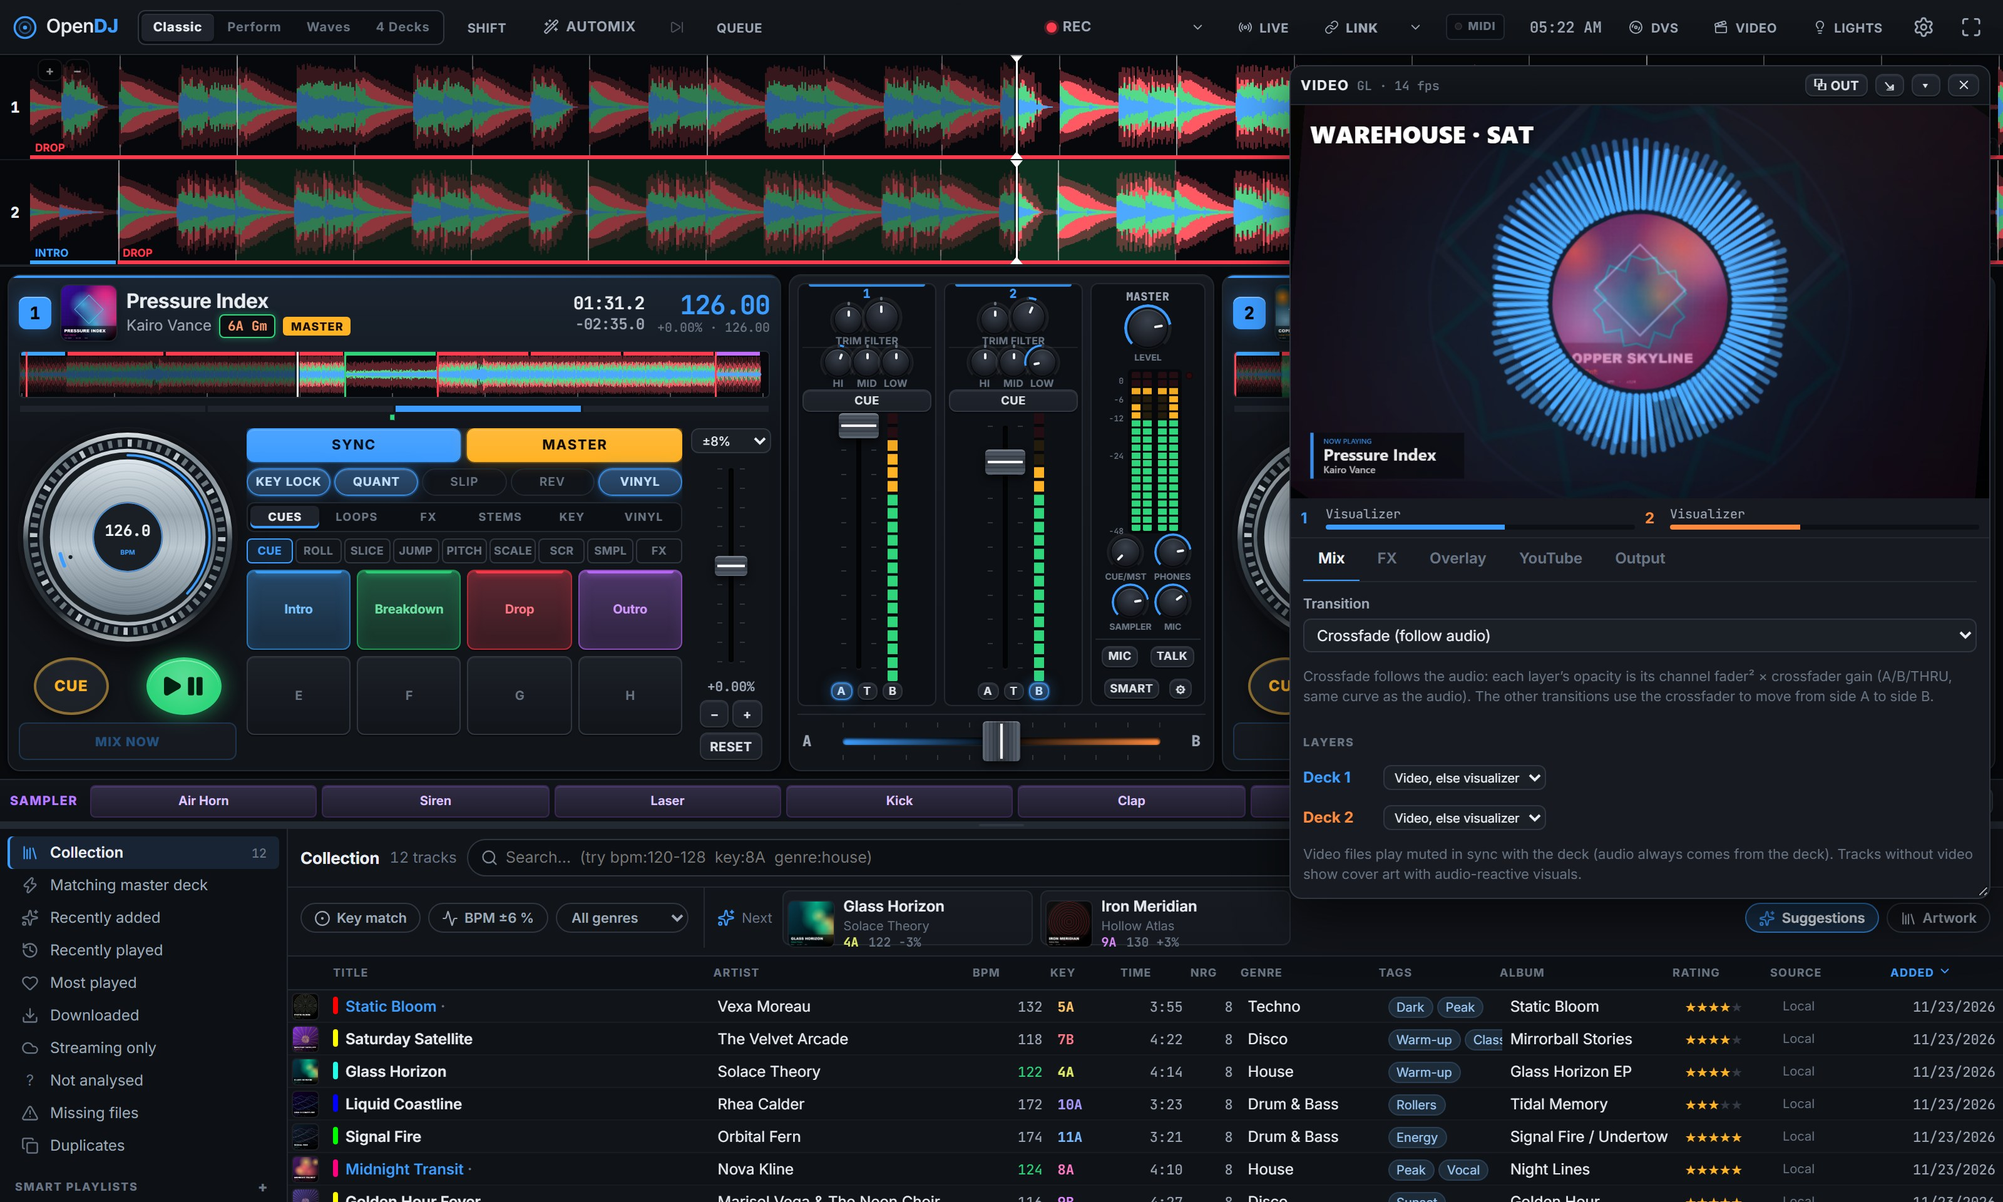
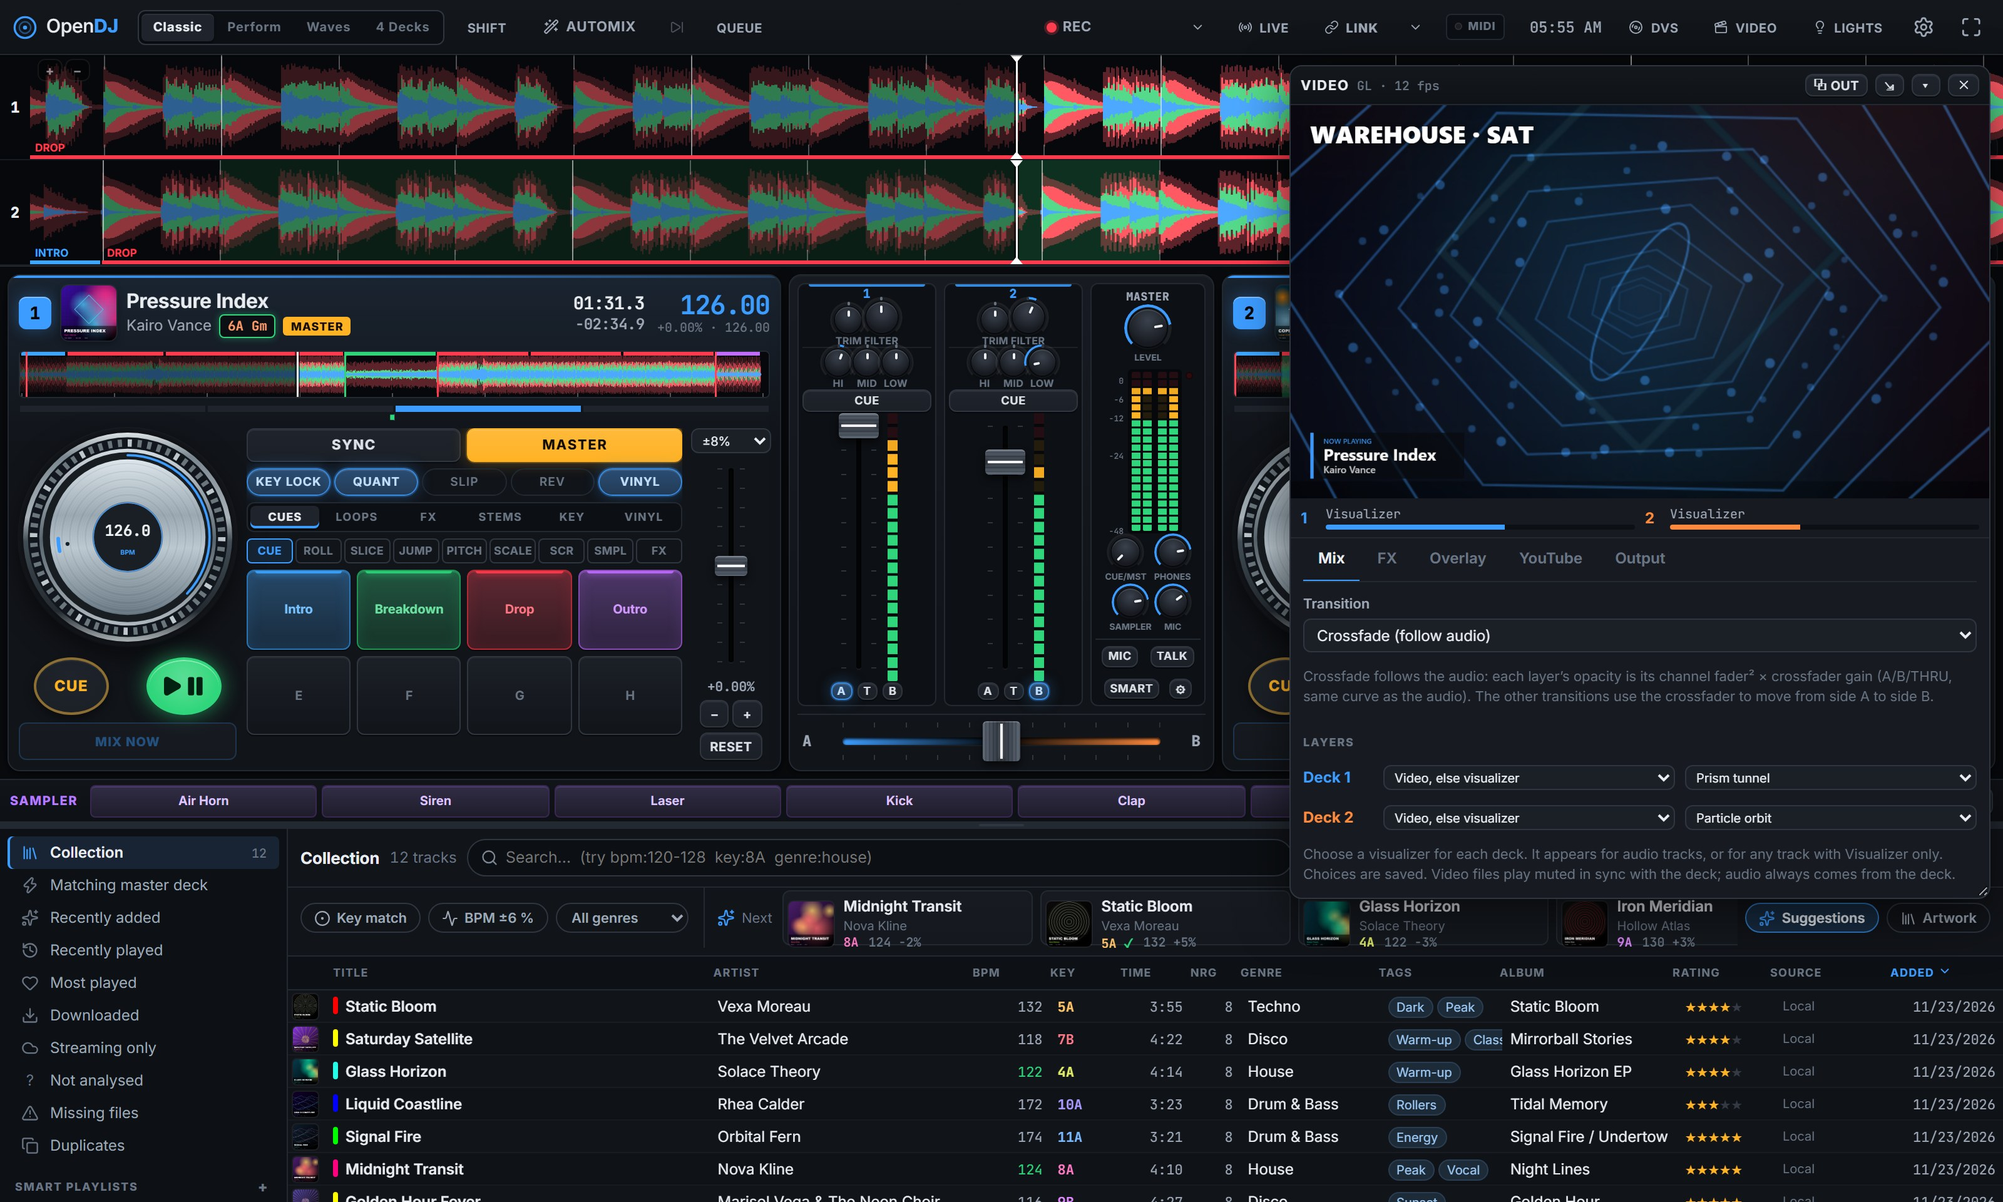
Add four audio-reactive visualisers with per-deck saved controls

diff --git a/public/js/video/visualizer.js b/public/js/video/visualizer.js
@@ -1,8 +1,9 @@
-// Audio-reactive visualizer for decks without a picture: cover art + spectrum ring + beat pulse.
+// Audio-reactive deck scenes: cover ring, spectrum, waveform, particles and prism tunnel.
 // Draws into its own small canvas; the mixer uses that canvas as a layer texture.
 // Taps the channel's post-FX signal with our own AnalyserNode (engine.js is not modified).
 import { api } from '../api.js';
 import { cssVar } from '../ui/themes.js';
+import { visualStyle } from './video-core.js';
 
 const W = 640, H = 360;
 
@@ -14,6 +15,7 @@ export class Visualizer {
     this.g = this.canvas.getContext('2d');
     this.analyser = null; this.bins = null; this.cover = null; this.coverFor = null;
     this.energy = 0; this.smooth = new Float32Array(48); this.hue = 0;
+    this.style = 'ring'; this.wave = null;
     this.accent = cssVar('--accent');
     this._onTheme = () => { this.accent = getComputedStyle(document.documentElement).getPropertyValue('--accent').trim() || '#3ea6ff'; };
     window.addEventListener('opendj-theme', this._onTheme);
@@ -22,6 +24,7 @@ export class Visualizer {
 
   get width() { return W; }
   get height() { return H; }
+  setStyle(id) { this.style = visualStyle(id); }
 
   ensureAnalyser() {
     if (this.analyser) return;
@@ -31,6 +34,7 @@ export class Visualizer {
     ch.fx.output.connect(this.analyser); // fan-out tap: does not change the audio path
     ch.fx.wetOut?.connect(this.analyser); // post-fader FX tails (silent in pre-fader mode)
     this.bins = new Uint8Array(this.analyser.frequencyBinCount);
+    this.wave = new Uint8Array(this.analyser.fftSize);
   }
 
   setTrack(track) {
@@ -42,7 +46,7 @@ export class Visualizer {
     img.src = api.coverUrl(track.id);
   }
 
-  /** Render one frame. deck gives the beat phase; cheap (≈ 50 shapes). */
+  /** Render one frame. deck gives the beat phase; work stays bounded per style. */
   draw(deck, now) {
     this.ensureAnalyser();
     const g = this.g, a = this.analyser, bins = this.bins;
@@ -74,6 +78,11 @@ export class Visualizer {
       g.globalAlpha = 1;
       g.fillStyle = 'rgba(0,0,0,.45)'; g.fillRect(0, 0, W, H);
     }
+    if (this.style !== 'ring') {
+      this.drawStyle(now, beat, accent);
+      g.globalCompositeOperation = 'source-over'; g.globalAlpha = 1;
+      return;
+    }
     // spectrum ring
     const cx = W / 2, cy = H / 2, r0 = 86 + 10 * beat;
     g.globalCompositeOperation = 'lighter';
@@ -102,6 +111,61 @@ export class Visualizer {
       g.fillText(String(this.index + 1), cx, cy + 2);
     }
     g.restore();
+  }
+
+  /** Bounded Canvas2D scenes at 640×360; no particles or audio nodes allocated per frame. */
+  drawStyle(now, beat, accent) {
+    const g = this.g, bands = this.smooth, n = bands.length, cx = W / 2, cy = H / 2;
+    const t = now / 1000;
+    g.globalCompositeOperation = 'lighter'; g.lineCap = 'round';
+    if (this.style === 'bars') {
+      const step = (W - 64) / n;
+      for (let k = 0; k < n; k++) {
+        const h = 6 + bands[k] * 230, x = 32 + k * step;
+        g.fillStyle = withAlpha(accent, 0.45 + bands[k] * 0.55);
+        g.fillRect(x, H - 48 - h, step - 3, h);
+        g.fillStyle = 'rgba(225,245,255,.85)'; g.fillRect(x, H - 52 - h, step - 3, 2);
+        g.fillStyle = withAlpha(accent, 0.12); g.fillRect(x, H - 42, step - 3, h * 0.12);
+      }
+    } else if (this.style === 'scope') {
+      this.analyser.getByteTimeDomainData(this.wave);
+      g.strokeStyle = withAlpha(accent, 0.15); g.lineWidth = 1;
+      g.beginPath();
+      for (let y = 60; y < H; y += 60) { g.moveTo(24, y); g.lineTo(W - 24, y); }
+      for (let x = 32; x < W; x += 48) { g.moveTo(x, 30); g.lineTo(x, H - 30); }
+      g.stroke();
+      for (const [width, alpha] of [[10, 0.14], [3, 1]]) {
+        g.strokeStyle = withAlpha(accent, alpha); g.lineWidth = width; g.beginPath();
+        for (let k = 0; k < this.wave.length; k += 2) {
+          const x = 24 + k / (this.wave.length - 2) * (W - 48), y = cy + (this.wave[k] - 128) / 128 * (110 + beat * 18);
+          if (k === 0) g.moveTo(x, y); else g.lineTo(x, y);
+        }
+        g.stroke();
+      }
+    } else if (this.style === 'orbit') {
+      for (let k = 0; k < 80; k++) {
+        const band = bands[k % n], angle = k * 2.399963 + t * (0.12 + (k % 4) * 0.035);
+        const radius = 28 + Math.sqrt(k / 80) * 130 + band * 48 + beat * 8;
+        const x = cx + Math.cos(angle) * radius * 1.55, y = cy + Math.sin(angle) * radius * 0.8;
+        g.fillStyle = withAlpha(accent, 0.25 + band * 0.65); g.beginPath();
+        g.arc(x, y, 1.3 + band * 3.5, 0, Math.PI * 2); g.fill();
+      }
+      g.strokeStyle = withAlpha(accent, 0.5 + this.energy * 0.4); g.lineWidth = 2;
+      g.beginPath(); g.ellipse(cx, cy, 56 + this.energy * 30, 24 + beat * 5, -t * 0.15, 0, Math.PI * 2); g.stroke();
+    } else if (this.style === 'tunnel') {
+      for (let k = 0; k < 14; k++) {
+        const depth = ((k / 14 + t * 0.08) % 1), radius = 12 + depth * depth * 420;
+        const twist = t * 0.16 + depth * 0.9;
+        g.strokeStyle = withAlpha(accent, 0.12 + depth * 0.7); g.lineWidth = 1 + depth * 2;
+        g.beginPath();
+        for (let j = 0; j <= 6; j++) {
+          const a = j * Math.PI / 3 + twist, r = radius * (1 + bands[(k * 3) % n] * 0.16 + beat * 0.025);
+          const x = cx + Math.cos(a) * r * 1.4, y = cy + Math.sin(a) * r;
+          if (j === 0) g.moveTo(x, y); else g.lineTo(x, y);
+        }
+        g.stroke();
+      }
+    }
   }
 
   dispose() {

diff --git a/public/js/video/video-ui.js b/public/js/video/video-ui.js
@@ -3,7 +3,7 @@
 import { icon } from '../ui/icons.js';
 import { el, uiZoom } from '../util.js';
 import { VideoMixer, RESOLUTIONS } from './mixer.js';
-import { TRANSITIONS, FX, parseYouTube } from './video-core.js';
+import { TRANSITIONS, FX, VISUAL_STYLES, parseYouTube } from './video-core.js';
 import { YouTubeSource, searchYouTube } from './youtube.js';
 import { OutputManager } from './output.js';
 
@@ -115,11 +115,13 @@ export function setupVideo(app) {
       meters.append(el('div', { class: 'vid-m yt', hidden: true }, el('b', {}, '▶'), yl, el('span', { class: 'vid-m-bar' }, yb)));
     }
     function live() {
-      if (meterEls.length !== mixer.deckCount + 1) buildMeters();
+      if (meterEls.length !== mixer.deckCount + 1) { buildMeters(); if (cur === 'mix' || cur === 'fx') show(cur); }
       const w = mixer.weights;
       let any = false;
       for (let i = 0; i < mixer.deckCount; i++) {
         const l = mixer.layers[i], m = meterEls[i];
+        const picker = root.querySelector(`[data-visual-deck="${i}"]`);
+        if (picker && picker.value !== l.visualStyle) picker.value = l.visualStyle;
         const a = w[i]?.alpha || 0; any ||= a > 0.01;
         m.bar.style.width = `${Math.round(a * 100)}%`;
         m.lbl.textContent = l.kind === 'video' ? `Video${l.lastDecision ? ` ${l.lastDecision.mode === 'locked' || l.lastDecision.mode === 'nudge' ? `±${Math.round(Math.abs(l.drift) * 1000)}ms` : l.lastDecision.mode}` : ''}` : l.kind === 'visual' ? 'Visualizer' : '—';
@@ -157,13 +159,16 @@ export function setupVideo(app) {
           el('option', { value: 'auto', selected: l.mode === 'auto' }, 'Video, else visualizer'),
           el('option', { value: 'visual', selected: l.mode === 'visual' }, 'Visualizer only'),
           el('option', { value: 'off', selected: l.mode === 'off' }, 'Off (black)'));
-        rows.push(el('div', { class: 'vid-deckrow', style: `--deck-color: var(--deck${i + 1})` }, el('b', {}, `Deck ${i + 1}`), ms));
+        ms.setAttribute('aria-label', `Deck ${i + 1} video source`);
+        const vs = el('select', { class: 'sel tiny', 'data-visual-deck': i, 'aria-label': `Deck ${i + 1} visualizer`, onchange: () => mixer.setVisualStyle(i, vs.value) },
+          ...VISUAL_STYLES.map(s => el('option', { value: s.id, selected: s.id === l.visualStyle }, s.name)));
+        rows.push(el('div', { class: 'vid-deckrow', style: `--deck-color: var(--deck${i + 1})` }, el('b', {}, `Deck ${i + 1}`), ms, vs));
       }
       return el('div', { class: 'form' },
         el('label', { class: 'field' }, el('span', {}, 'Transition'), sel),
         el('p', { class: 'hint' }, 'Crossfade follows the audio: each layer’s opacity is its channel fader² × crossfader gain (A/B/THRU, same curve as the audio). The other transitions use the crossfader to move from side A to side B.'),
         el('h3', {}, 'Layers'), ...rows,
-        el('p', { class: 'hint' }, 'Video files play muted in sync with the deck (audio always comes from the deck). Tracks without video show cover art with audio-reactive visuals.'));
+        el('p', { class: 'hint' }, 'Choose a visualizer for each deck. It appears for audio tracks, or for any track with Visualizer only. Choices are saved. Video files play muted in sync with the deck; audio always comes from the deck.'));
     }
 
     function fxTab() {

diff --git a/public/js/video/mixer.js b/public/js/video/mixer.js
@@ -3,7 +3,7 @@
 // driven by the crossfader. Per-layer FX, text/logo overlay and a "now playing" lower third.
 // The canvas feeds the preview panel and (via captureStream) the pop-out output window.
 import { Emitter } from '../util.js';
-import { computeLayers, dominantLayer, nowPlayingText, lowerThirdAlpha, TRANSITIONS, FX } from './video-core.js';
+import { computeLayers, dominantLayer, nowPlayingText, lowerThirdAlpha, TRANSITIONS, FX, visualStyle } from './video-core.js';
 import { VideoDeckLayer } from './video-deck.js';
 import { GLRenderer, CanvasRenderer } from './renderers.js';
 import { withAlpha } from './visualizer.js';
@@ -15,11 +15,12 @@ function loadConfig() {
   const def = {
     transition: 'crossfade', resolution: '720p', renderer: 'auto',
     fx: [{}, {}, {}, {}], modes: ['auto', 'auto', 'auto', 'auto'],
+    visualStyles: ['ring', 'ring', 'ring', 'ring'],
     overlay: { text: '', textPos: 'tl', logo: '', logoPos: 'tr', lowerThird: true, hold: 8 },
   };
   try {
     const s = JSON.parse(localStorage.getItem(STORE) || '{}');
-    return { ...def, ...s, overlay: { ...def.overlay, ...(s.overlay || {}) }, fx: def.fx.map((d, i) => ({ ...(s.fx?.[i] || {}) })), modes: def.modes.map((d, i) => s.modes?.[i] || d) };
+    return { ...def, ...s, overlay: { ...def.overlay, ...(s.overlay || {}) }, fx: def.fx.map((d, i) => ({ ...(s.fx?.[i] || {}) })), modes: def.modes.map((d, i) => s.modes?.[i] || d), visualStyles: def.visualStyles.map((d, i) => visualStyle(s.visualStyles?.[i])) };
   } catch { return def; }
 }
 
@@ -42,7 +43,7 @@ export class VideoMixer extends Emitter {
     this.og = this.overlay.getContext('2d');
     this.overlay.width = this.canvas.width; this.overlay.height = this.canvas.height;
     this.overlayDirty = true; this.logoImg = null; this.setLogo(this.config.overlay.logo, false);
-    this.layers = this.engine.decks.map((d, i) => { const l = new VideoDeckLayer(app, d, this.host); l.mode = this.config.modes[i]; if (l.mode !== 'auto') l.setTrack(d.track, true); return l; });
+    this.layers = this.engine.decks.map((d, i) => { const l = new VideoDeckLayer(app, d, this.host); l.setVisualStyle(this.config.visualStyles[i]); l.mode = this.config.modes[i]; if (l.mode !== 'auto') l.setTrack(d.track, true); return l; });
     this.extra = null; // external CSS layer (YouTube): { active, volume, xfAssign, setWeight(w), title() }
     this.weights = []; this.outputs = new Set(); this.running = false;
     this.lt = { text: '', start: -1e9, key: null };
@@ -69,6 +70,7 @@ export class VideoMixer extends Emitter {
   setTransition(t) { if (TRANSITIONS.some((x) => x.id === t)) { this.config.transition = t; this.save(); this.emit('config'); } }
   setFx(i, id, on) { this.config.fx[i][id] = !!on; this.save(); this.emit('config'); }
   setMode(i, m) { this.config.modes[i] = m; this.layers[i].setMode(m); this.save(); this.emit('config'); }
+  setVisualStyle(i, id) { if (!this.layers[i]) return; this.config.visualStyles[i] = visualStyle(id); this.layers[i].setVisualStyle(id); this.save(); this.emit('config'); }
   setOverlay(patch) { Object.assign(this.config.overlay, patch); this.overlayDirty = true; this.save(); this.emit('config'); }
   setLogo(dataUrl, save = true) {
     this.config.overlay.logo = dataUrl || '';

diff --git a/public/js/video/video-deck.js b/public/js/video/video-deck.js
@@ -1,6 +1,6 @@
 // One video layer per deck: a muted <video> that follows deck.position / deck.rate, or an audio-reactive
 // visualizer for tracks without a picture. Audio always comes from the deck's own audio engine.
-import { isVideoCandidate, syncDecision } from './video-core.js';
+import { isVideoCandidate, syncDecision, visualStyle } from './video-core.js';
 import { Visualizer } from './visualizer.js';
 
 export const videoUrl = (id) => `/api/tracks/${encodeURIComponent(id)}/video`;
@@ -11,6 +11,7 @@ export class VideoDeckLayer {
   constructor(app, deck, host) {
     this.app = app; this.deck = deck; this.index = deck.index; this.host = host;
     this.mode = 'auto'; // auto | visual | off
+    this.visualStyle = 'ring';
     this.kind = 'none'; // none | video | visual
     this.video = null; this.visual = null; this.track = null;
     this.seekLatency = 0.05; this._seekAt = 0; this.lastDecision = null; this.drift = 0;
@@ -21,6 +22,7 @@ export class VideoDeckLayer {
   }
 
   setMode(m) { this.mode = m; this.setTrack(this.deck.track, true); }
+  setVisualStyle(id) { this.visualStyle = visualStyle(id); this.visual?.setStyle(this.visualStyle); }
 
   setTrack(track, force = false) {
     if (!force && track === this.track) return;
@@ -34,6 +36,7 @@ export class VideoDeckLayer {
   useVisual() {
     this.kind = 'visual';
     if (!this.visual) this.visual = new Visualizer(this.app, this.index);
+    this.visual.setStyle(this.visualStyle);
     this.visual.setTrack(this.track);
   }
 

diff --git a/public/js/video/video-core.js b/public/js/video/video-core.js
@@ -3,6 +3,14 @@
 // Everything here is unit-tested in test/video-core.test.js.
 
 export const VIDEO_EXT = new Set(['mp4', 'm4v', 'mov', 'webm']);
+export const VISUAL_STYLES = [
+  { id: 'ring', name: 'Cover spectrum ring' },
+  { id: 'bars', name: 'Spectrum skyline' },
+  { id: 'scope', name: 'Neon waveform' },
+  { id: 'orbit', name: 'Particle orbit' },
+  { id: 'tunnel', name: 'Prism tunnel' },
+];
+export const visualStyle = id => VISUAL_STYLES.some(s => s.id === id) ? id : 'ring';
 export const TRANSITIONS = [
   { id: 'crossfade', name: 'Crossfade (follow audio)' },
   { id: 'cut', name: 'Cut' },

diff --git a/public/css/video.css b/public/css/video.css
@@ -41,6 +41,8 @@
 .vid-deckrow, .vid-fxrow { display: flex; align-items: center; gap: 8px; }
 .vid-deckrow b, .vid-fxrow b { color: var(--deck-color); min-width: 14px; }
 .vid-deckrow b { min-width: 56px; }
+.vid-deckrow { flex-wrap: wrap; }
+.vid-deckrow .sel { flex: 1 1 140px; min-width: 0; max-width: 100%; }
 .vid-fxbtns { display: flex; flex-wrap: wrap; gap: 4px; }
 .vid-fxbtns .btn.active { --deck-color: inherit; }
 .vid-check { display: flex; align-items: flex-start; gap: 6px; font-size: 11.5px; color: var(--text); cursor: pointer; }

diff --git a/docs/QA_0.5.4.md b/docs/QA_0.5.4.md
@@ -14,7 +14,13 @@ The fix preserves stem-output validation and the WebGPU-to-WASM fallback. A new 
 - Browser stem preparation, cached stem loading, mute/gain, key lock, tempo, loop, reverse, scratch, echo, instant doubles and deletion: passed with the synthetic band-separation model; no page errors.
 - All **28 MCP tools**: passed through the authenticated relay and the real browser app.
 - The complete browser/desktop suite is repeated before release; exact results are attached to the patch PR. Publication requires all required checks on the final PR commit, followed by successful release builds and asset checksum verification.
-- README screenshots and animation are regenerated from the working application using fictional locally synthesised music. The Automix image shows live selection with automatic style and length. Screenshot capture now exits with failure on page errors or a failed capture.
+- README screenshots and animation are regenerated from the working application using fictional locally synthesised music, including the new visualiser gallery (19 updated/new images and animation in total). The Automix image shows live selection with automatic style and length. Screenshot capture now exits with failure on page errors or a failed capture.
+
+## Additional visualisers
+
+Four original Canvas2D scenes join the cover ring: Spectrum Skyline, Neon Waveform, Particle Orbit and Prism Tunnel. Each deck stores its own selection. Rendering remains at 640×360 per visible layer, uses bounded geometry and reuses the existing analyser and typed buffers; only the waveform style requests time-domain samples. No dependencies, downloaded art, models or additional audio paths are introduced.
+
+The expanded real-browser video suite checks every style's selector, audio response, distinct rendered pixels, independent saved choices, analyser reuse, invalid-style fallback and a local 16.7 ms draw-command p95 budget. It also checks all styles in the actual pop-out output during audio playback, 320 px panel layout, switching between two/four decks, lazy visualiser creation after an off/video source, and a full application reload. Both WebGL2 and Canvas2D compositors are covered. Drawing timing is a local workload check, not an end-to-end projector latency or hardware performance guarantee. The complete interface sweep is repeated after adding the selectors.
 
 ## Absolute-timecode defect found in the repeated suite
 

diff --git a/docs/RELEASE_NOTES.md b/docs/RELEASE_NOTES.md
@@ -24,6 +24,7 @@ Mix on 2 or 4 decks with your own music from local folders, USB sticks, NAS shar
 **Check your download:** `SHA256SUMS.txt` lists the checksum of every file (`sha256sum -c SHA256SUMS.txt --ignore-missing`). Security problems: please report them privately, see `SECURITY.md`.
 
 ### New in 0.5.4
+- Four additional audio-reactive visualisers: Spectrum Skyline, Neon Waveform, Particle Orbit and Prism Tunnel. Choose and save a style per deck in VIDEO → Mix; works with the preview, projector output and Canvas2D fallback. No new dependencies or downloaded assets.
 - Fix a browser startup syntax error in the stem backend fallback handler. CI now parses every browser JavaScript module and worker, including files not imported by unit tests.
 - Stabilise absolute DVS position when audio capture begins partway through a carrier cycle, and reset bit thresholds on needle-lift reacquisition. A 48-case regression covers both timecode families, both directions and varying capture phases.
 - Refresh the README, feature screenshots and demo animation from the working application using the fictional demo library.

diff --git a/README.md b/README.md
@@ -128,6 +128,10 @@ Plans adapt to the available analysis and prepared stems. Missing or uncertain i
 
 ### Video & lighting
 
+**Five audio-reactive visualisers:** the cover spectrum ring plus **Spectrum Skyline**, **Neon Waveform**, **Particle Orbit** and **Prism Tunnel**. Open **VIDEO → Mix** and choose a style beside each deck. Select **Visualizer only** to use it even for a video track. Choices survive a restart, and the same picture reaches the preview and projector output.
+
+<img src="docs/images/visualizers.jpg" alt="Four audio-reactive visualisers: spectrum skyline, neon waveform, particle orbit and prism tunnel" width="100%">
+
 <table>
 <tr>
 <td width="50%"><img src="docs/images/video.jpg" alt="Video mixer with the audio-reactive visualizer and overlays"></td>
